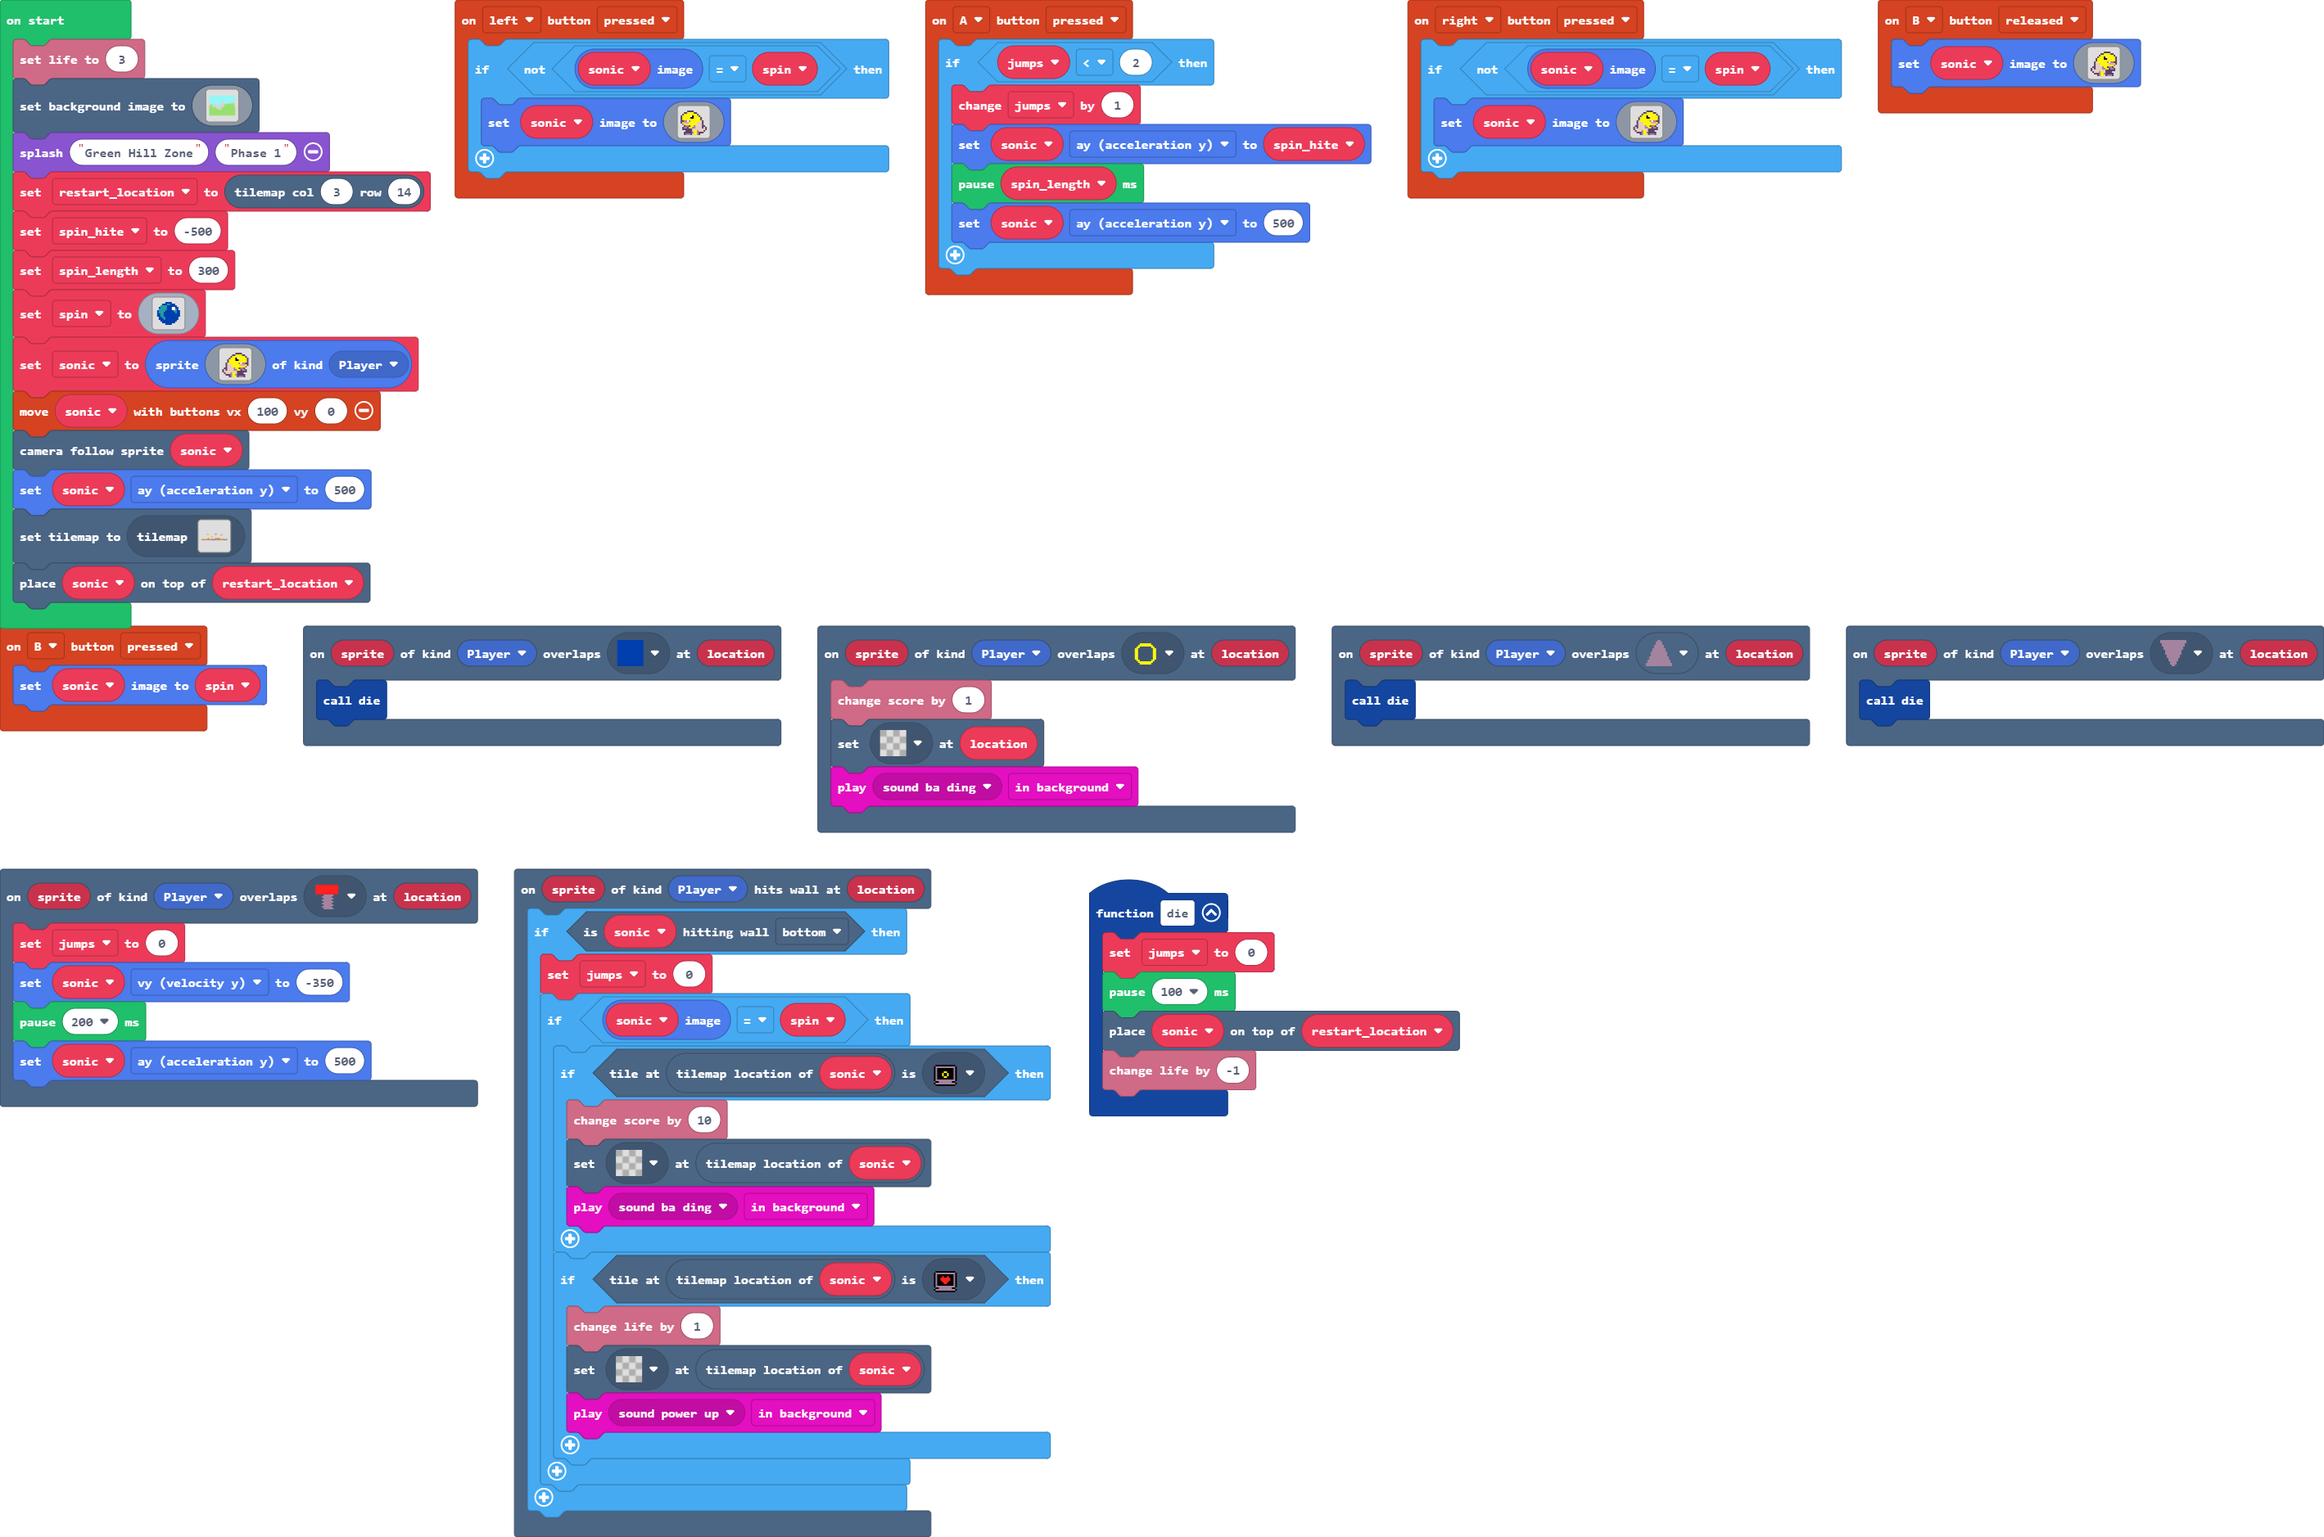
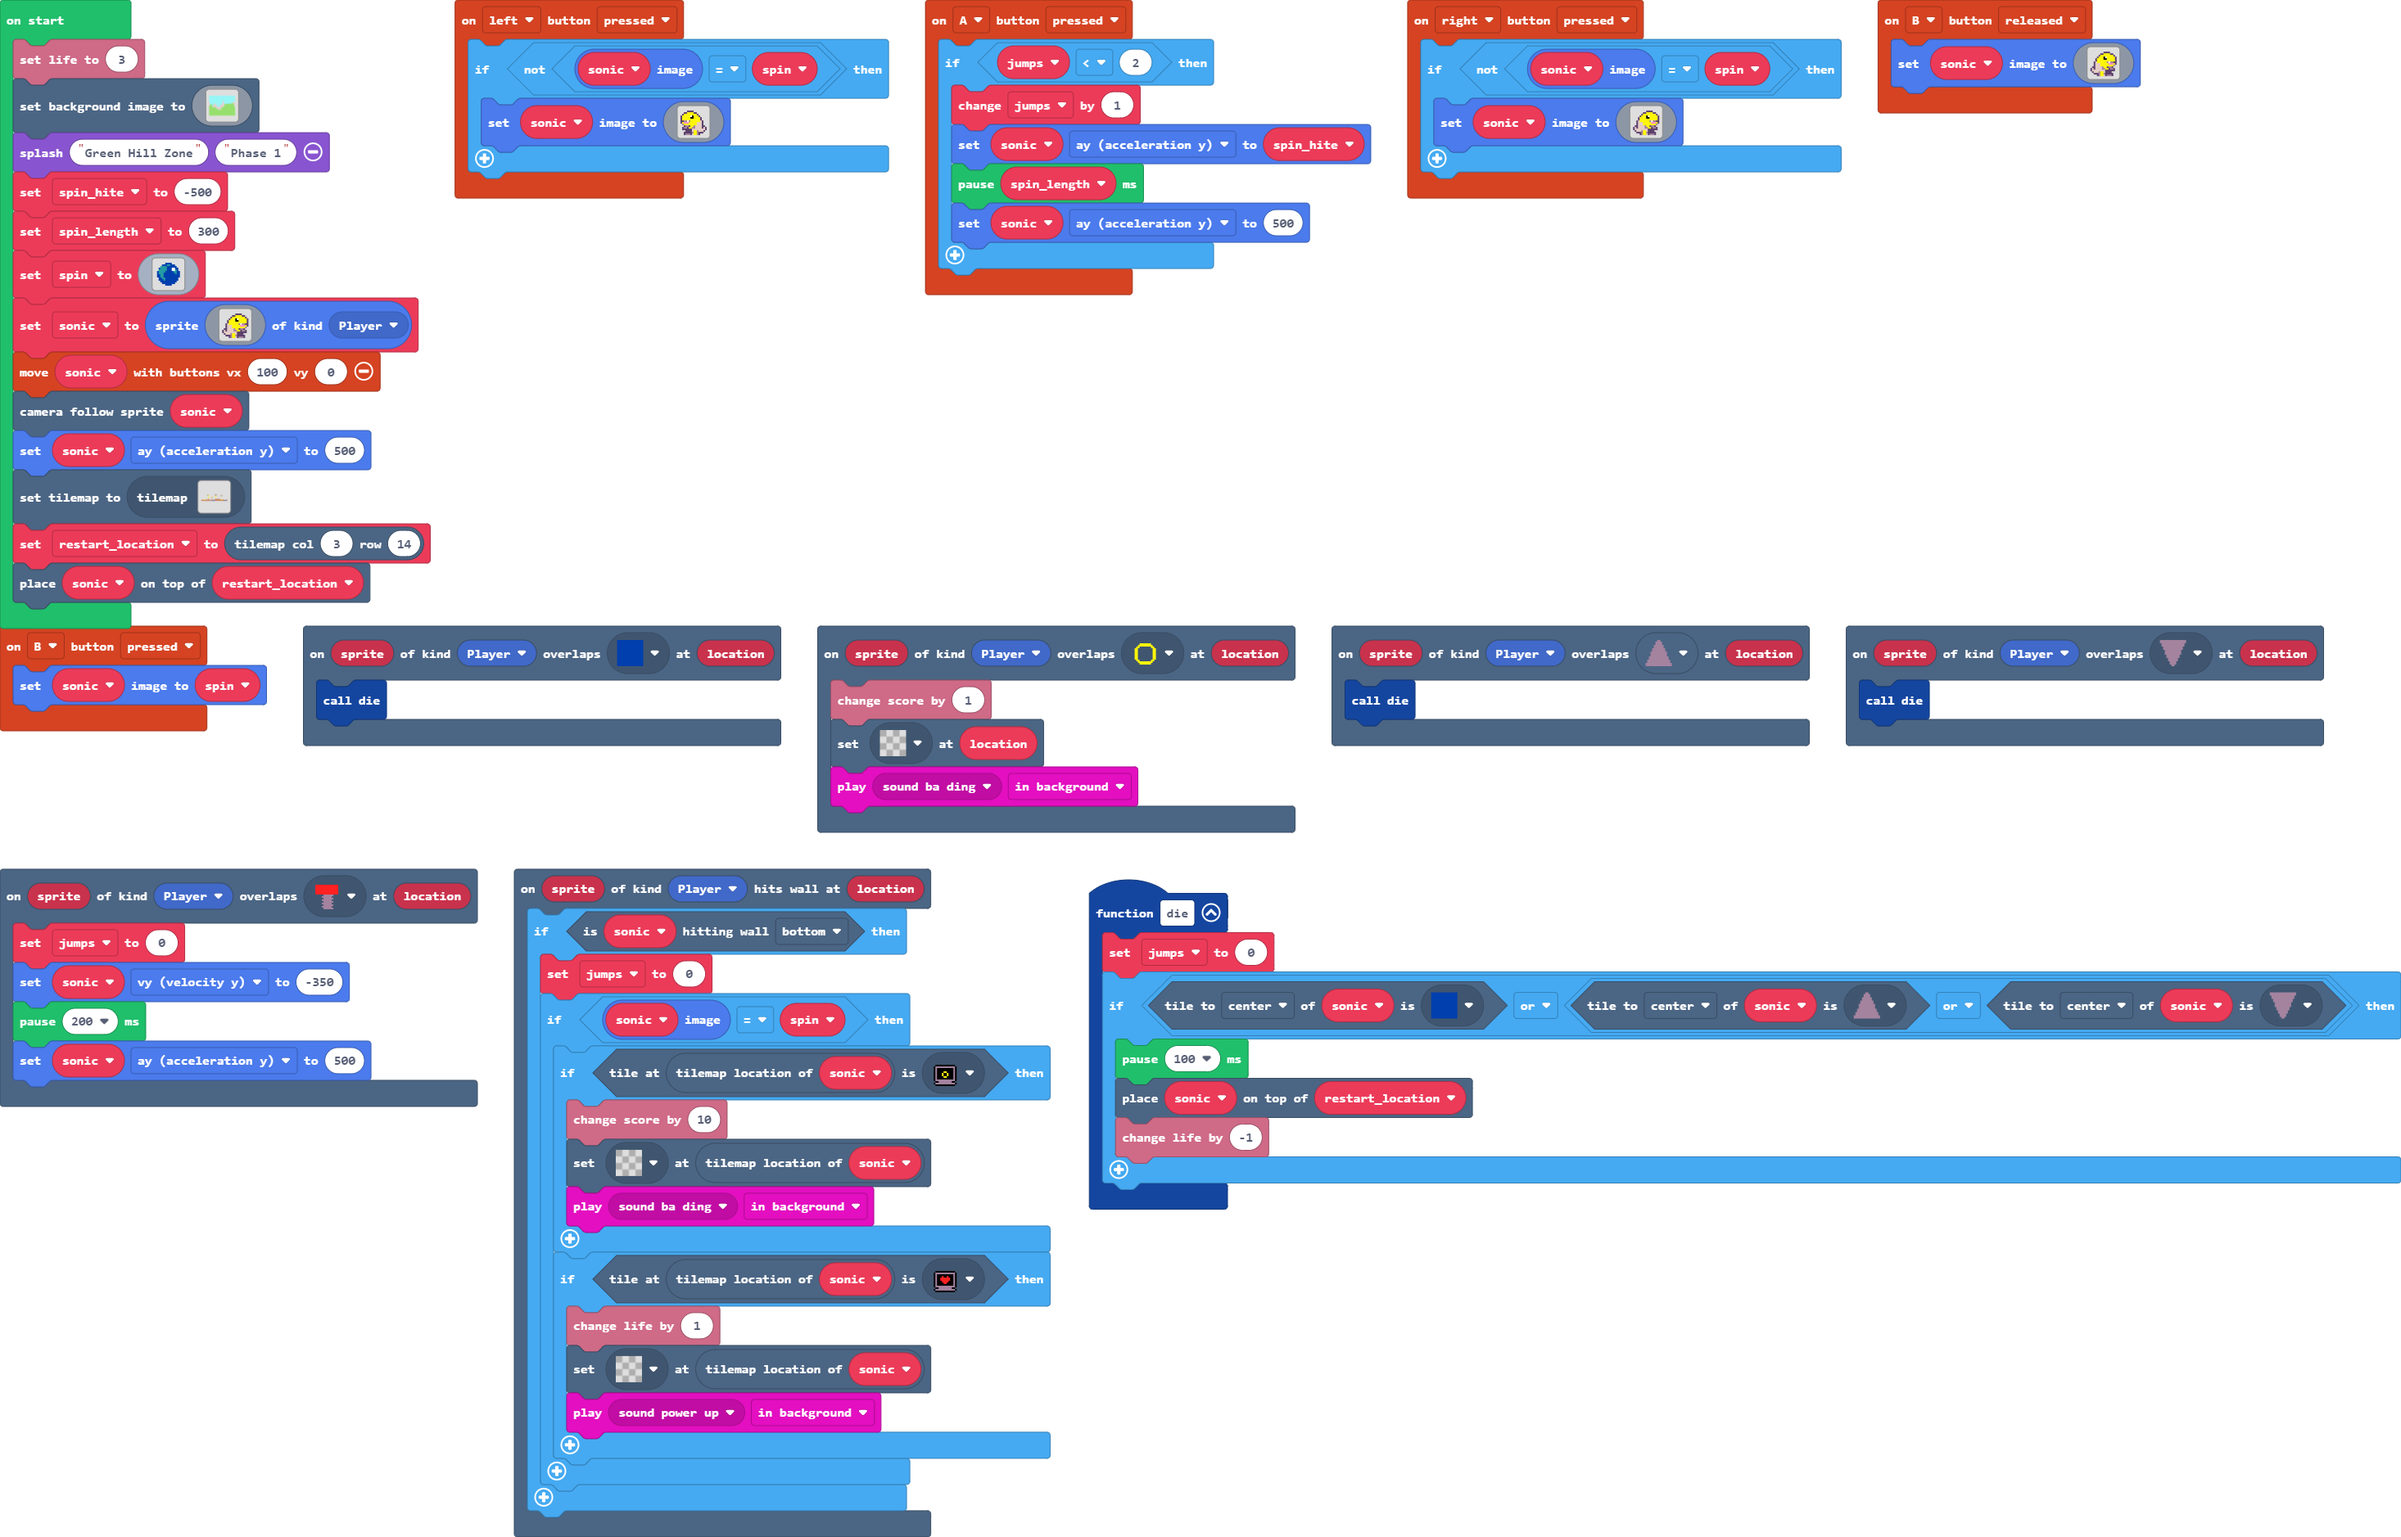
Update main.blocks, main.ts

diff --git a/main.ts b/main.ts
@@ -41,9 +41,11 @@ controller.left.onEvent(ControllerButtonEvent.Pressed, function () {
 })
 function die () {
     jumps = 0
-    pause(100)
-    tiles.placeOnTile(sonic, restart_location)
-    info.changeLifeBy(-1)
+    if (sonic.tileKindAt(TileDirection.Center, assets.tile`myTile7`) || (sonic.tileKindAt(TileDirection.Center, assets.tile`myTile5`) || sonic.tileKindAt(TileDirection.Center, assets.tile`myTile8`))) {
+        pause(100)
+        tiles.placeOnTile(sonic, restart_location)
+        info.changeLifeBy(-1)
+    }
 }
 controller.right.onEvent(ControllerButtonEvent.Pressed, function () {
     if (!(sonic.image == spin)) {
@@ -66,11 +68,11 @@ controller.B.onEvent(ControllerButtonEvent.Released, function () {
     sonic.setImage(assets.image`sonicR`)
 })
 let jumps = 0
+let restart_location: tiles.Location = null
 let sonic: Sprite = null
 let spin: Image = null
 let spin_length = 0
 let spin_hite = 0
-let restart_location: tiles.Location = null
 info.setLife(3)
 scene.setBackgroundImage(img`
     9999999999999999999999999999999999999999999999999999999999999999999999999999999999999999999999999999999999999999999999999999999999999999999999999999999999999999
@@ -195,7 +197,6 @@ scene.setBackgroundImage(img`
     7777777777777777777777777777777777777777777777777777777777777777777777777777777777777777777777777777777777777777777777777777777777777777777777777777777777777777
     `)
 game.splash("Green Hill Zone", "Phase 1")
-restart_location = tiles.getTileLocation(3, 14)
 spin_hite = -500
 spin_length = 300
 spin = assets.image`spin`
@@ -204,4 +205,5 @@ controller.moveSprite(sonic, 100, 0)
 scene.cameraFollowSprite(sonic)
 sonic.ay = 500
 tiles.setCurrentTilemap(tilemap`level1`)
+restart_location = tiles.getTileLocation(3, 14)
 tiles.placeOnTile(sonic, restart_location)
